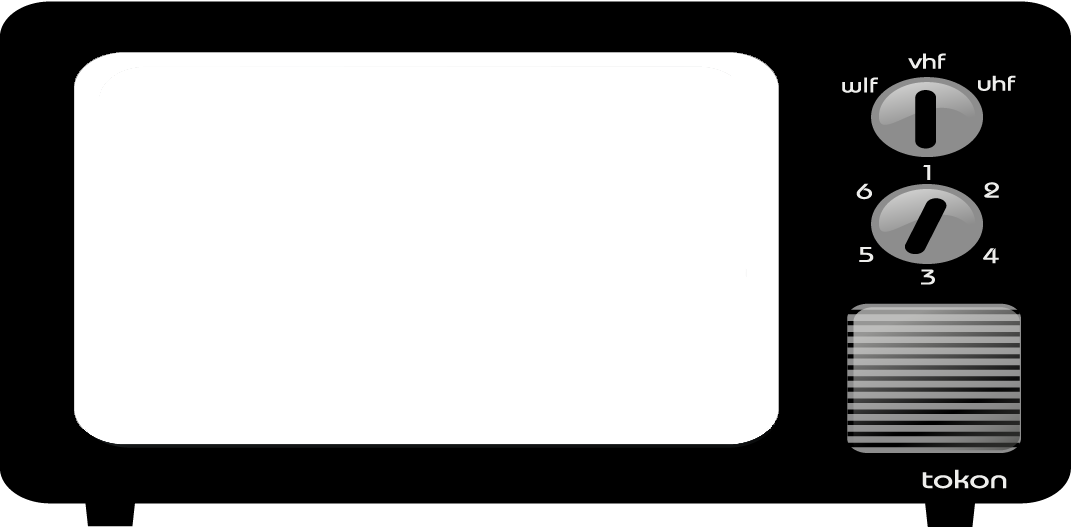
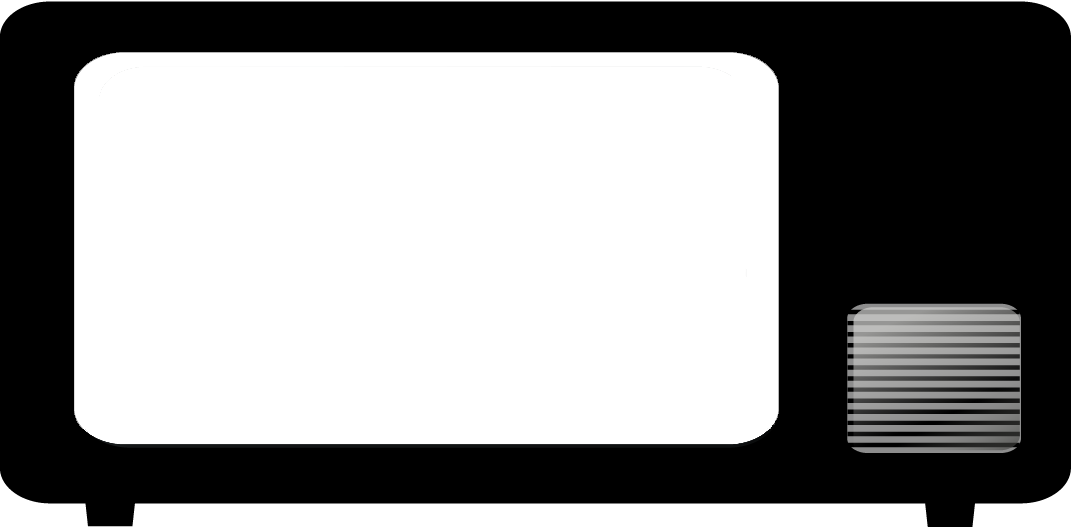
Schalter eingefügt

diff --git a/Index.html b/Index.html
@@ -9,12 +9,31 @@
 
 		<div id="game"><iframe id="spiel" name="spiel" src="spiel/Index.html" frameBorder="0" width="930" height="630"></iframe></div>
 		<div id="bg"><img src="tv.png" alt="UNIBRAWL" width="1350" height="800"/> </div>
-		<form>
-		<button id="OnOff" type="button" onClick="starten();">An<br>Aus</button>
-	</form>
+	<div id="OnOff" ><img id="OnOff2" src="spiel/assets/OnOffButton.png" alt="UNIBRAWL" width="100" height="150" onClick="starten();"/></div>
+	<div id="lauter"><img src="spiel/assets/lauter.png" alt="UNIBRAWL" width="50" height="50"/> </div>
+		<div id="leiser"><img src="spiel/assets/leiser.png" alt="UNIBRAWL" width="50" height="50"/> </div>
+
+
 	<script>
+		var bild = document.getElementById('OnOff2').src;
 		function starten(){
-			spiel.starten();
+		
+			if(document.getElementById('OnOff2').src != bild){
+				document.getElementById('OnOff2').src = "spiel/assets/OnOffButton.png";
+				spiel.turnOff();
+			}else{
+				document.getElementById('OnOff2').src = "spiel/assets/ButtonOn.png";
+				spiel.starten();
+			}
+			
+			spiel.focus();
+		}
+		function lauter(){
+			spiel.lauter();
+			spiel.focus();
+		}
+		function leiser(){
+			spiel.leiser();
 			spiel.focus();
 		}
 	</script>

diff --git a/CSS/Stylesheet.css b/CSS/Stylesheet.css
@@ -11,35 +11,48 @@ div{
 }
 
 #OnOff{
-	background-color:#cdcdcd;
-	height: 50px;
-	width: 50px;	
-	margin-left: 1150px;
+	height: 0px;
+	width: 0px;	
+	margin-left: 1125px;
 	margin-top: 170px;
-	align-self: center;
 	position: absolute;
 	z-index:2;
 }
+#lauter{
+
+	z-index:2;
+	height: 0px;
+	width: 0px;
+	margin-left: 1185px;
+	margin-top: 370px;
+	position: absolute;
+}
+#leiser{
+
+	z-index:2;
+	height: 0px;
+	width: 0px;
+	margin-left: 1115px;
+	margin-top: 370px;
+	position: absolute;
+}
 #bg
 {
-	background-color:#efefef;
 	z-index:1;
 	height: 0px;
 	width: 0px;
 	margin-top: 0px;
 	position: absolute;
 	pointer-events: none;
-	align-self: center;
 }
+
+
 #game
 {
-
-	background-color:#cdcdcd;
 	height: 630px;
 	width: 930px;	
 	margin-left: 80px;
 	margin-top: 70px;
-	align-self: center;
 	position: absolute;
 	z-index:0;
 }

diff --git a/spiel/script/core.js b/spiel/script/core.js
@@ -18,7 +18,15 @@ var music;
 var hit;
 var lose;
 var ameisenkrieg
-
+function volumeUp(){
+	music.volume += 0.1;
+}
+function volumeDown(){
+	music.volume -= 0.1;
+}
+function ausschalten(){
+	game.state.start('offscreen');
+}
 var Off = {
 	preload : function(){
 		

diff --git a/spiel/Index.html b/spiel/Index.html
@@ -14,6 +14,15 @@
 		function starten(){
 			Off.starten();
 		}
+	   function turnOff(){
+		   ausschalten();
+	   }
+	   function lauter(){
+		   volumeUp();
+	   }
+	   function leiser(){
+		   volumeDown();
+	   }
 	</script>
     </body>
 </html>
